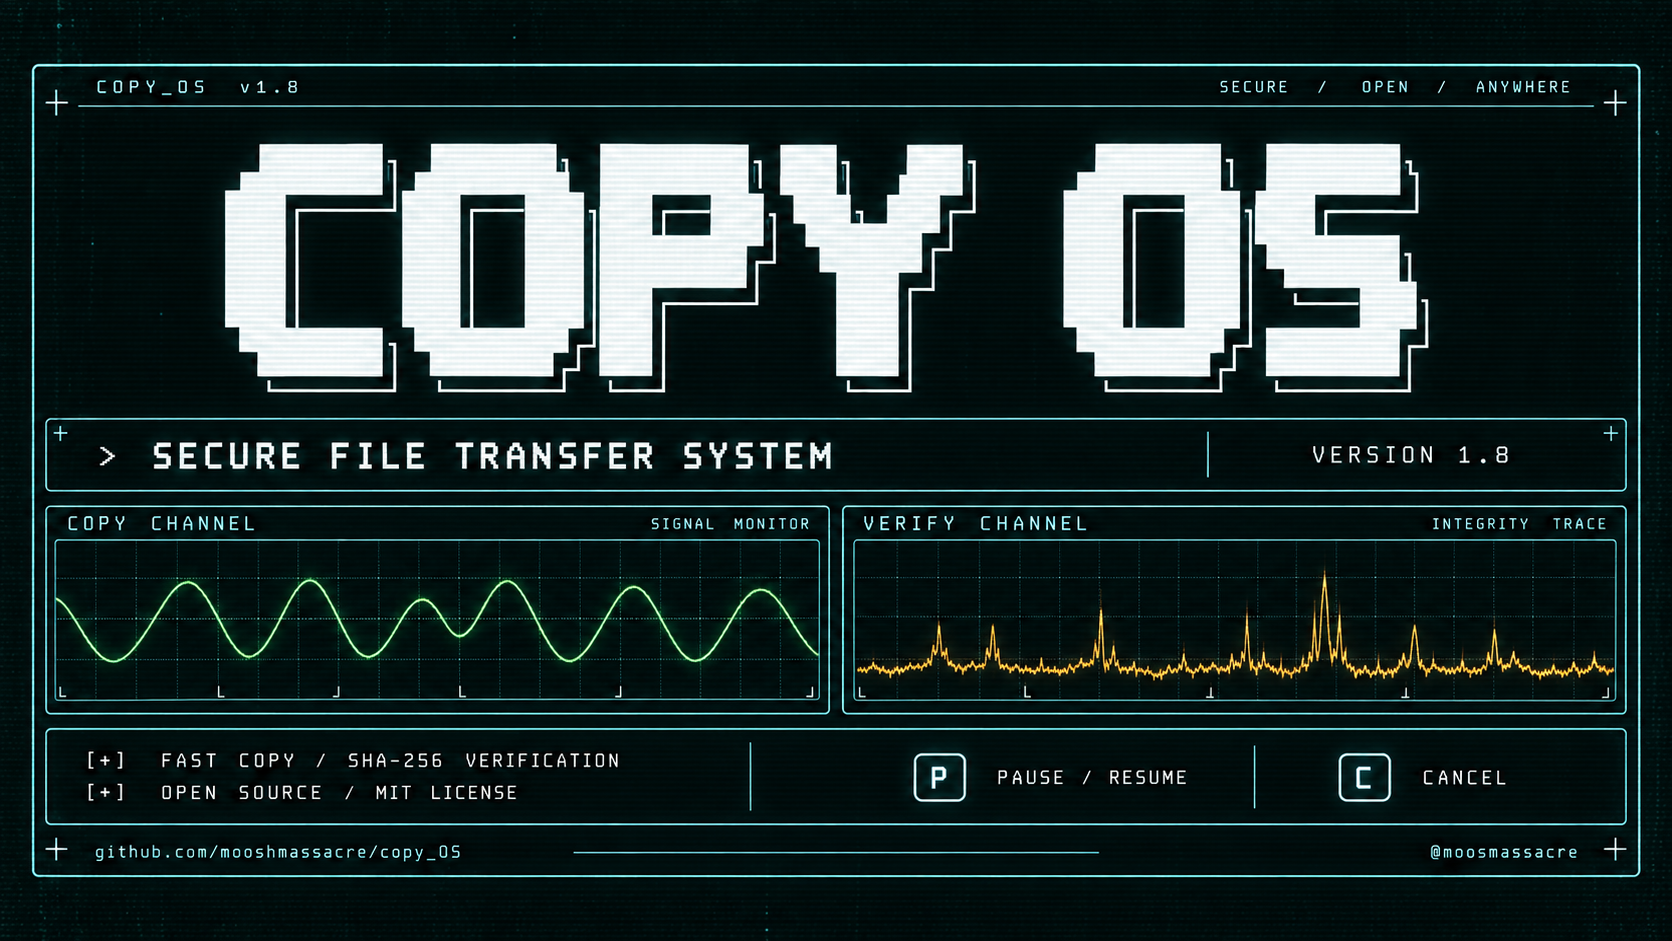
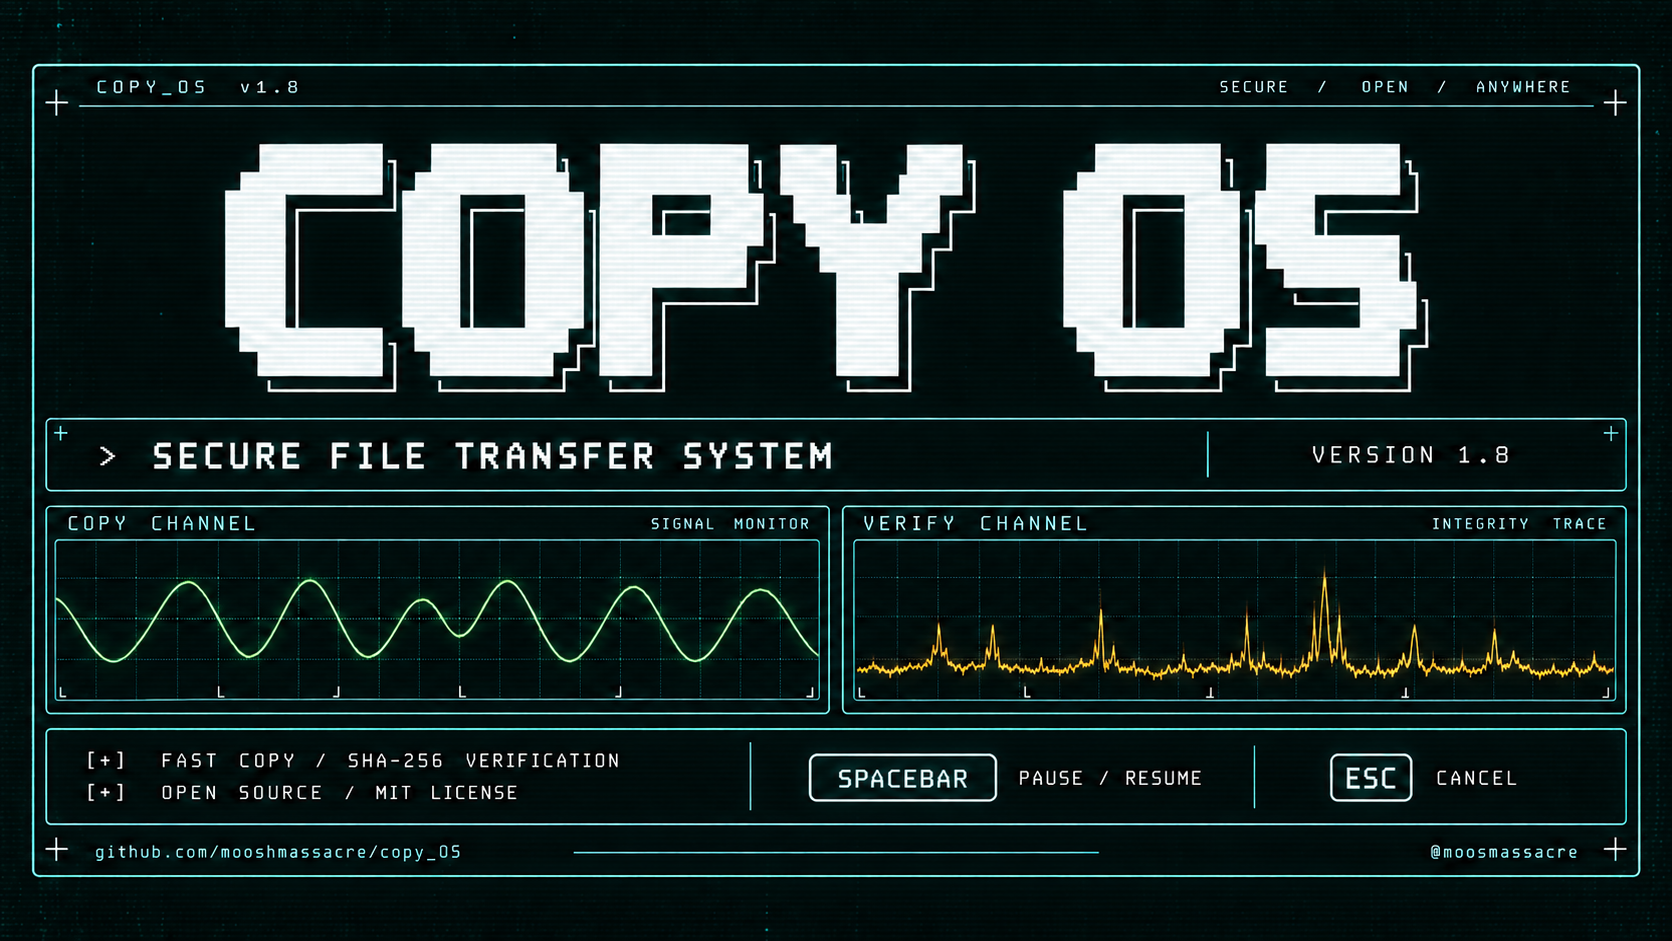
Unify Windows and macOS package with Spacebar/Esc controls and path fix

diff --git a/copy_OS.py b/copy_OS.py
@@ -1,7 +1,7 @@
 # SPDX-License-Identifier: MIT
 # Copyright (c) 2026 @moosmassacre <mooshmassacre@mail.com>
 
-# COPY_OS 1.8 — local test build.
+# COPY_OS 1.8 — Windows/macOS unified build.
 # Fast/secure copying, keyboard controls, responsive scanning, configuration,
 # transfer statistics and detailed error reports.
 import os
@@ -12,6 +12,8 @@ import hashlib
 from dataclasses import dataclass, field
 from functools import partial
 import select
+import signal
+import shlex
 import threading
 import queue
 import json
@@ -93,8 +95,11 @@ class CopyControl:
         self.redraw = None
         self._original_terminal = None
         self._extended_key = False
+        self._original_sigint = None
 
     def __enter__(self):
+        # Esc is the only cancellation shortcut during a backup.
+        self._original_sigint = signal.signal(signal.SIGINT, signal.SIG_IGN)
         return self
 
     def begin(self):
@@ -109,7 +114,12 @@ class CopyControl:
         self.active = True
 
     def __exit__(self, *args):
-        self.suspend()
+        try:
+            self.suspend()
+        finally:
+            if self._original_sigint is not None:
+                signal.signal(signal.SIGINT, self._original_sigint)
+                self._original_sigint = None
 
     def suspend(self):
         if self._original_terminal is not None:
@@ -133,7 +143,20 @@ class CopyControl:
                     return None
                 return key.lower()
         elif select.select([sys.stdin], [], [], 0)[0]:
-            return os.read(sys.stdin.fileno(), 1).decode("ascii", errors="ignore").lower()
+            key = os.read(sys.stdin.fileno(), 1)
+            if key == b"\x1b" and select.select([sys.stdin], [], [], 0.05)[0]:
+                prefix = os.read(sys.stdin.fileno(), 1)
+                if prefix in (b"[", b"O"):
+                    # Arrow/function keys start with Esc on POSIX terminals.
+                    # Consume their control sequence without cancelling.
+                    for _ in range(32):
+                        if not select.select([sys.stdin], [], [], 0.05)[0]:
+                            break
+                        part = os.read(sys.stdin.fileno(), 1)
+                        if not part or 0x40 <= part[0] <= 0x7e:
+                            break
+                    return None
+            return key.decode("ascii", errors="ignore").lower()
         return None
 
     def checkpoint(self):
@@ -142,13 +165,13 @@ class CopyControl:
         try:
             while True:
                 key = self.read_key()
-                if key in ("c", "\x03"):
+                if key == "\x1b":
                     raise CopyCancelled()
-                if key == "p":
+                if key == " ":
                     self.paused = not self.paused
                     if self.paused:
                         pause_start = time.perf_counter()
-                        print("\nPAUSED — [P] Resume | [C] Cancel", flush=True)
+                        print("\nPAUSED — [SPACEBAR] Resume | [ESC] Cancel", flush=True)
                     elif self.redraw:
                         self.redraw()
                 if not self.paused:
@@ -235,6 +258,27 @@ def write_log(log_file: Path, message: str):
 
 def clear_line():
     print("\033[2K", end="")
+
+
+def normalize_input_path(value: str) -> str:
+    """Accept plain paths and a single shell-quoted/escaped POSIX path.
+
+    Never execute shell input. Preserve Windows backslashes and UNC paths.
+    Unquoted paths containing spaces remain valid as entered.
+    """
+    value = value.strip()
+    if sys.platform == "win32":
+        if len(value) >= 2 and value[0] == value[-1] == '"':
+            return value[1:-1]
+        return value
+    if "\\" in value or value.startswith(("'", '"')):
+        try:
+            parts = shlex.split(value, posix=True)
+        except ValueError:
+            return value
+        if len(parts) == 1:
+            return parts[0]
+    return value
 
 
 def safe_path(path: Path) -> Path:
@@ -543,7 +587,7 @@ def update_interface(
     print(ASCII_ART)
     print()
 
-    lines.append("[P] Pause / Resume | [C] Cancel | Ctrl+C Cancel")
+    lines.append("[SPACEBAR] Pause / Resume | [ESC] Cancel")
     for line in lines:
         print(line)
     sys.stdout.flush()
@@ -625,7 +669,7 @@ def collect_files(source: Path, log_file: Path, control=None, timeout=30.0):
         delay = max(0, time.monotonic() - current['activity'])
         print("\033[2J\033[H", end="")
         print(ASCII_ART)
-        print("SCANNING SOURCE — [P] Pause/Resume | [C] Cancel")
+        print("SCANNING SOURCE — [SPACEBAR] Pause/Resume | [ESC] Cancel")
         print(f"Files: {current['count']} | Total: {format_bytes(current['bytes'])}")
         print(f"Path: {current['path']}")
         print(f"Waiting for a response for {delay:.1f}s (response timeout: {timeout:g}s)", flush=True)
@@ -942,7 +986,7 @@ def _copy_folders(source, destination, dry_run, secure_mode, control):
     if not dry_run:
         e.current_stage = "Free-space query"
         e.current_path = str(destination)
-        print("Checking destination free space (timeout: 5s)... [P] Pause | [C] Cancel", flush=True)
+        print("Checking destination free space (timeout: 5s)... [SPACEBAR] Pause | [ESC] Cancel", flush=True)
         try:
             available = free_space(destination, control=control)
         except KeyboardInterrupt:
@@ -1151,8 +1195,8 @@ if __name__ == "__main__":
     print(f"Configuration: {config_used if config_used else 'built-in defaults (no config.json)'}")
     print(f"Attempts per file: {MAX_ATTEMPTS} | Interval: {RETRY_DELAY}s")
 
-    source = input("\nEnter the SOURCE FOLDER path:\n> ").strip().strip('"')
-    destination = input("\nEnter the DESTINATION FOLDER path:\n> ").strip().strip('"')
+    source = normalize_input_path(input("\nEnter the SOURCE FOLDER path:\n> "))
+    destination = normalize_input_path(input("\nEnter the DESTINATION FOLDER path:\n> "))
 
     print("\nExecution mode:")
     print("  [1] Normal backup")

diff --git a/README.md b/README.md
@@ -6,6 +6,12 @@ A Python file-copy and NAS backup utility with fast and SHA-256-verified copy mo
 
 Copyright (c) 2026 @moosmassacre <mooshmassacre@mail.com>. Licensed under the MIT License; see LICENSE.
 
+## Download — Windows and macOS
+
+[Download the unified package](https://github.com/mooshmassacre/copy_OS/archive/refs/heads/main.zip). Extract the ZIP, then open **start_copy_OS.bat** on Windows or **start_copy_OS.command** on macOS. Both launch the same `copy_OS.py` and require Python 3.9+.
+
+The original v1.8.0 tag is preserved and predates these fixes. Use the current package above for Spacebar/Esc controls and macOS dragged-folder support.
+
 ## Requirements and startup
 
 Python 3.9 or later. No additional packages are required. Use a terminal with ANSI support. Keep `copy_OS.py` and `config.json` in the same directory.
@@ -58,7 +64,7 @@ Existing destination files are replaced only after successful checks. Destinatio
 
 ## Keyboard controls
 
-With the terminal focused, press **P** to pause/resume or **C** to cancel, without Enter. Ctrl+C also cancels.
+With the terminal focused, press **Spacebar** to pause/resume or **Esc** to cancel, without Enter. P and C are inactive; Ctrl+C is ignored during the backup operation.
 
 Controls are available during scanning, space checks, copying, temporary-file verification and retry waits. During copying or hashing, a blocked operating-system read/write must return before the command can be handled. Pausing does not freeze other applications: source changes remain subject to validation.
 
@@ -127,6 +133,13 @@ If report writing fails, the summary is printed in the terminal. Filenames, user
 
 Local automated tests cover both modes, configuration, retries, corruption rejection, source changes, pause/cancellation, blocked scans and final reports. The user confirmed successful execution on macOS. Windows keyboard input was simulated; real Windows/NAS validation remains pending. Local block-size measurements are not proof of a network speed improvement.
 
+## Updates to 1.8
+
+- Unified Windows/macOS package with both double-click launchers.
+- Spacebar pauses/resumes; Esc cancels.
+- macOS accepts shell-escaped and quoted folder paths from Finder drag-and-drop; Windows drive and UNC paths are preserved.
+- Users confirmed both launchers and the new controls work, and confirmed the macOS path fix. Automated Windows path tests passed; real Windows testing of the latest path fix remains pending.
+
 ## Release 1.8
 
 - English interface, source code, configuration and documentation.
@@ -160,3 +173,4 @@ Local automated tests cover both modes, configuration, retries, corruption rejec
 - [ ] Graphical interface.
 
 See [PERFORMANCE.md](PERFORMANCE.md) for local measurements and their limits.
+

diff --git a/docs/WINDOWS_GUIDE.md b/docs/WINDOWS_GUIDE.md
@@ -28,9 +28,9 @@ Open the NAS share in File Explorer first and confirm that you can access it usi
 
 Keep the terminal focused:
 
-- **P:** pause or resume.
-- **C:** cancel.
-- **Ctrl+C:** also cancels.
+- **Spacebar:** pause or resume.
+- **Esc:** cancel.
+P and C are inactive. Ctrl+C is ignored during the backup operation.
 
 These controls do not require Enter. During copying or hashing, a blocked operating-system read/write must return before input can be handled. Cancellation preserves completed copies and attempts to remove the active temporary file. Use the cancellation controls rather than closing the terminal window.
 
@@ -55,6 +55,7 @@ When started with the BAT file, logs and reports are written into the project's 
 | COPY_OS exited with code ... | Read the error shown above the message before closing the window. |
 | Broken logo or escape characters | Use an ANSI-capable terminal with a Unicode monospace font, such as Windows Terminal. |
 
-The BAT file has been reviewed for interpreter detection, paths and Windows line endings. It has not yet been executed on a real Windows system. Windows/NAS validation remains pending.
+The BAT file has been reviewed for interpreter detection, paths and Windows line endings. The user confirmed the Windows launcher works. Windows path handling is covered by automated tests; real Windows validation of the latest shared path fix remains pending.
 
 Copyright (c) 2026 @moosmassacre <mooshmassacre@mail.com>. MIT License.
+

diff --git a/docs/MACOS_GUIDE.md b/docs/MACOS_GUIDE.md
@@ -12,9 +12,11 @@ The launcher searches PATH and common Homebrew and python.org installation locat
 
 Mount your NAS share in Finder before starting. Mounted shares are usually under `/Volumes`. Logs and reports are written into the `logs` directory beside the script.
 
+You can drag folders from Finder into the source/destination prompts: escaped spaces and quoted paths are accepted. Plain paths containing spaces also work.
+
 ## Controls
 
-Follow the shortcuts displayed by your installed script and the [keyboard controls section](../README.md#keyboard-controls). The launcher does not change the script's shortcuts. Press Enter at the final prompt to finish.
+Press **Spacebar** to pause/resume or **Esc** to cancel. P and C are inactive; Ctrl+C is ignored during the backup operation. See the [keyboard controls section](../README.md#keyboard-controls). Press Enter at the final prompt to finish.
 
 ## Troubleshooting
 
@@ -36,3 +38,4 @@ The launcher was tested locally with Dry Run, paths containing spaces, missing-s
 The original v1.8.0 release archive predates this launcher; use the current project ZIP linked above.
 
 Copyright (c) 2026 @moosmassacre <mooshmassacre@mail.com>. MIT License.
+
